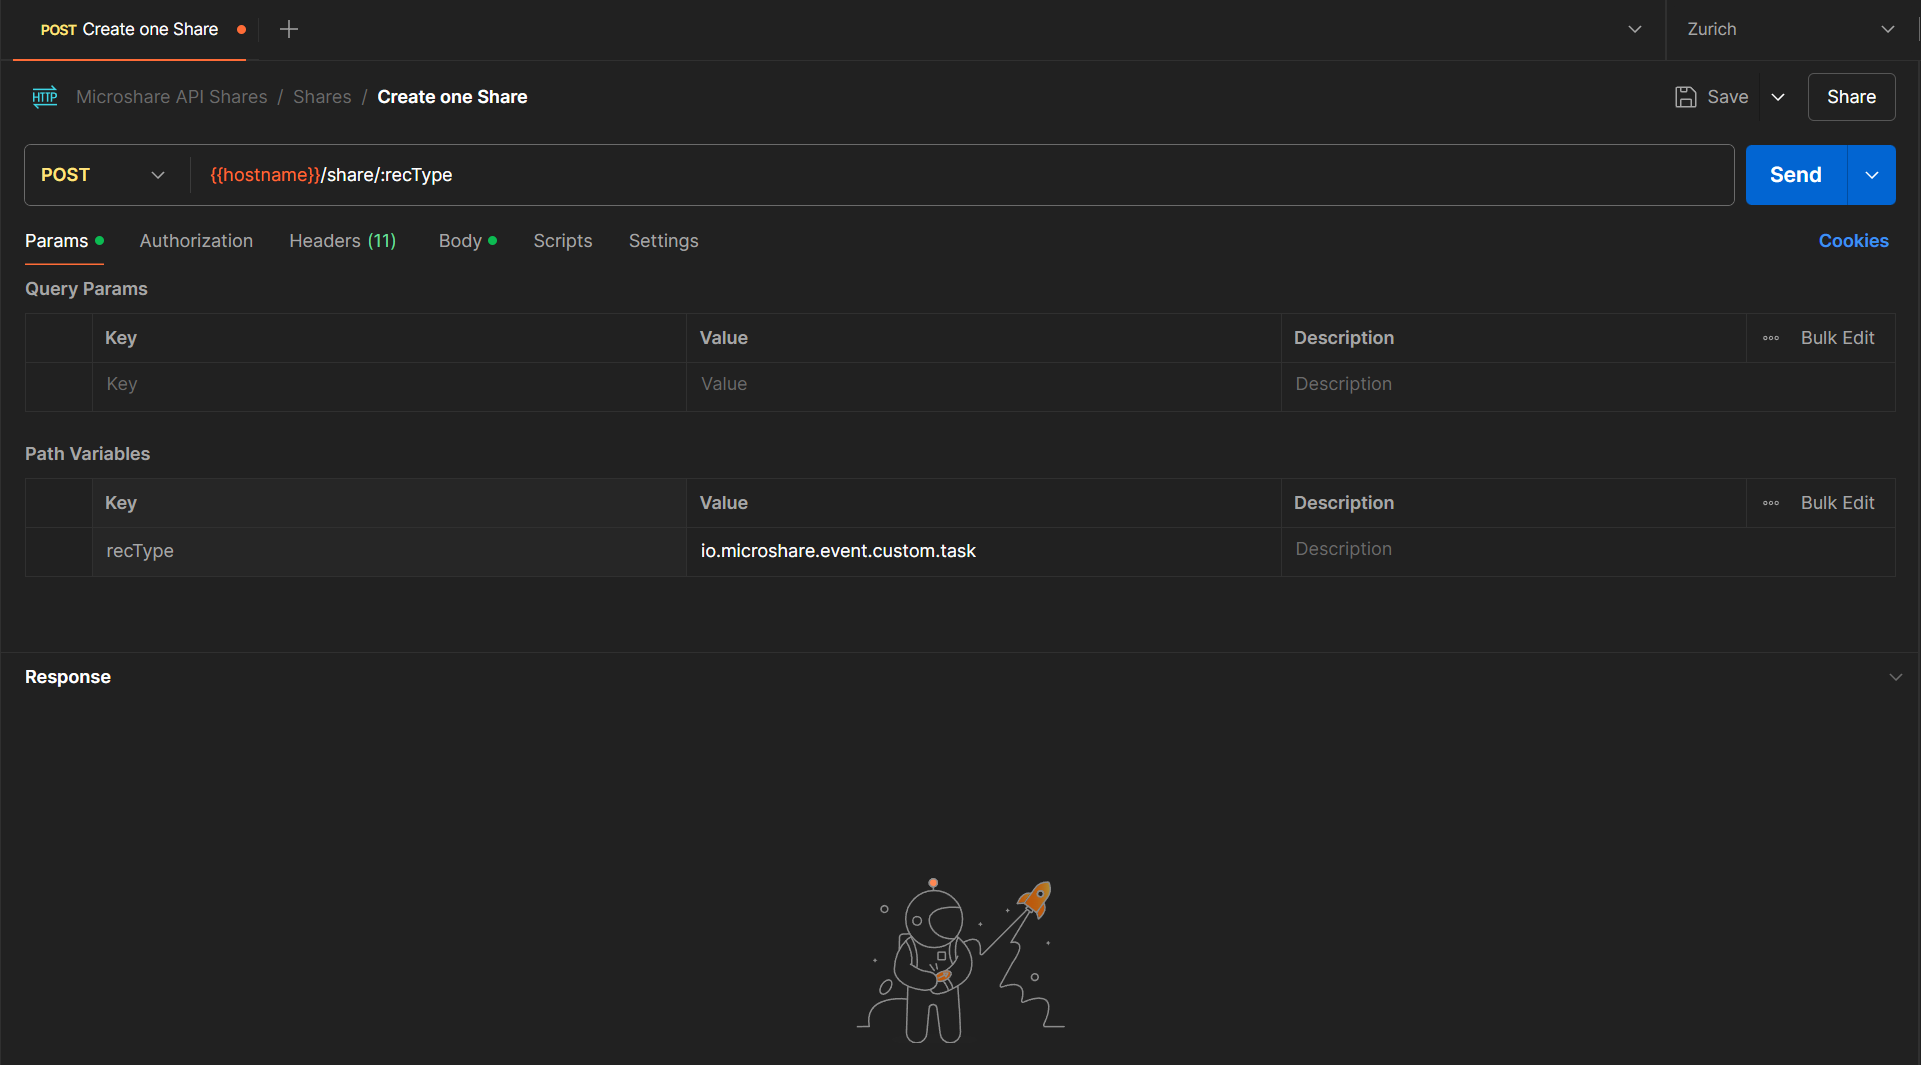
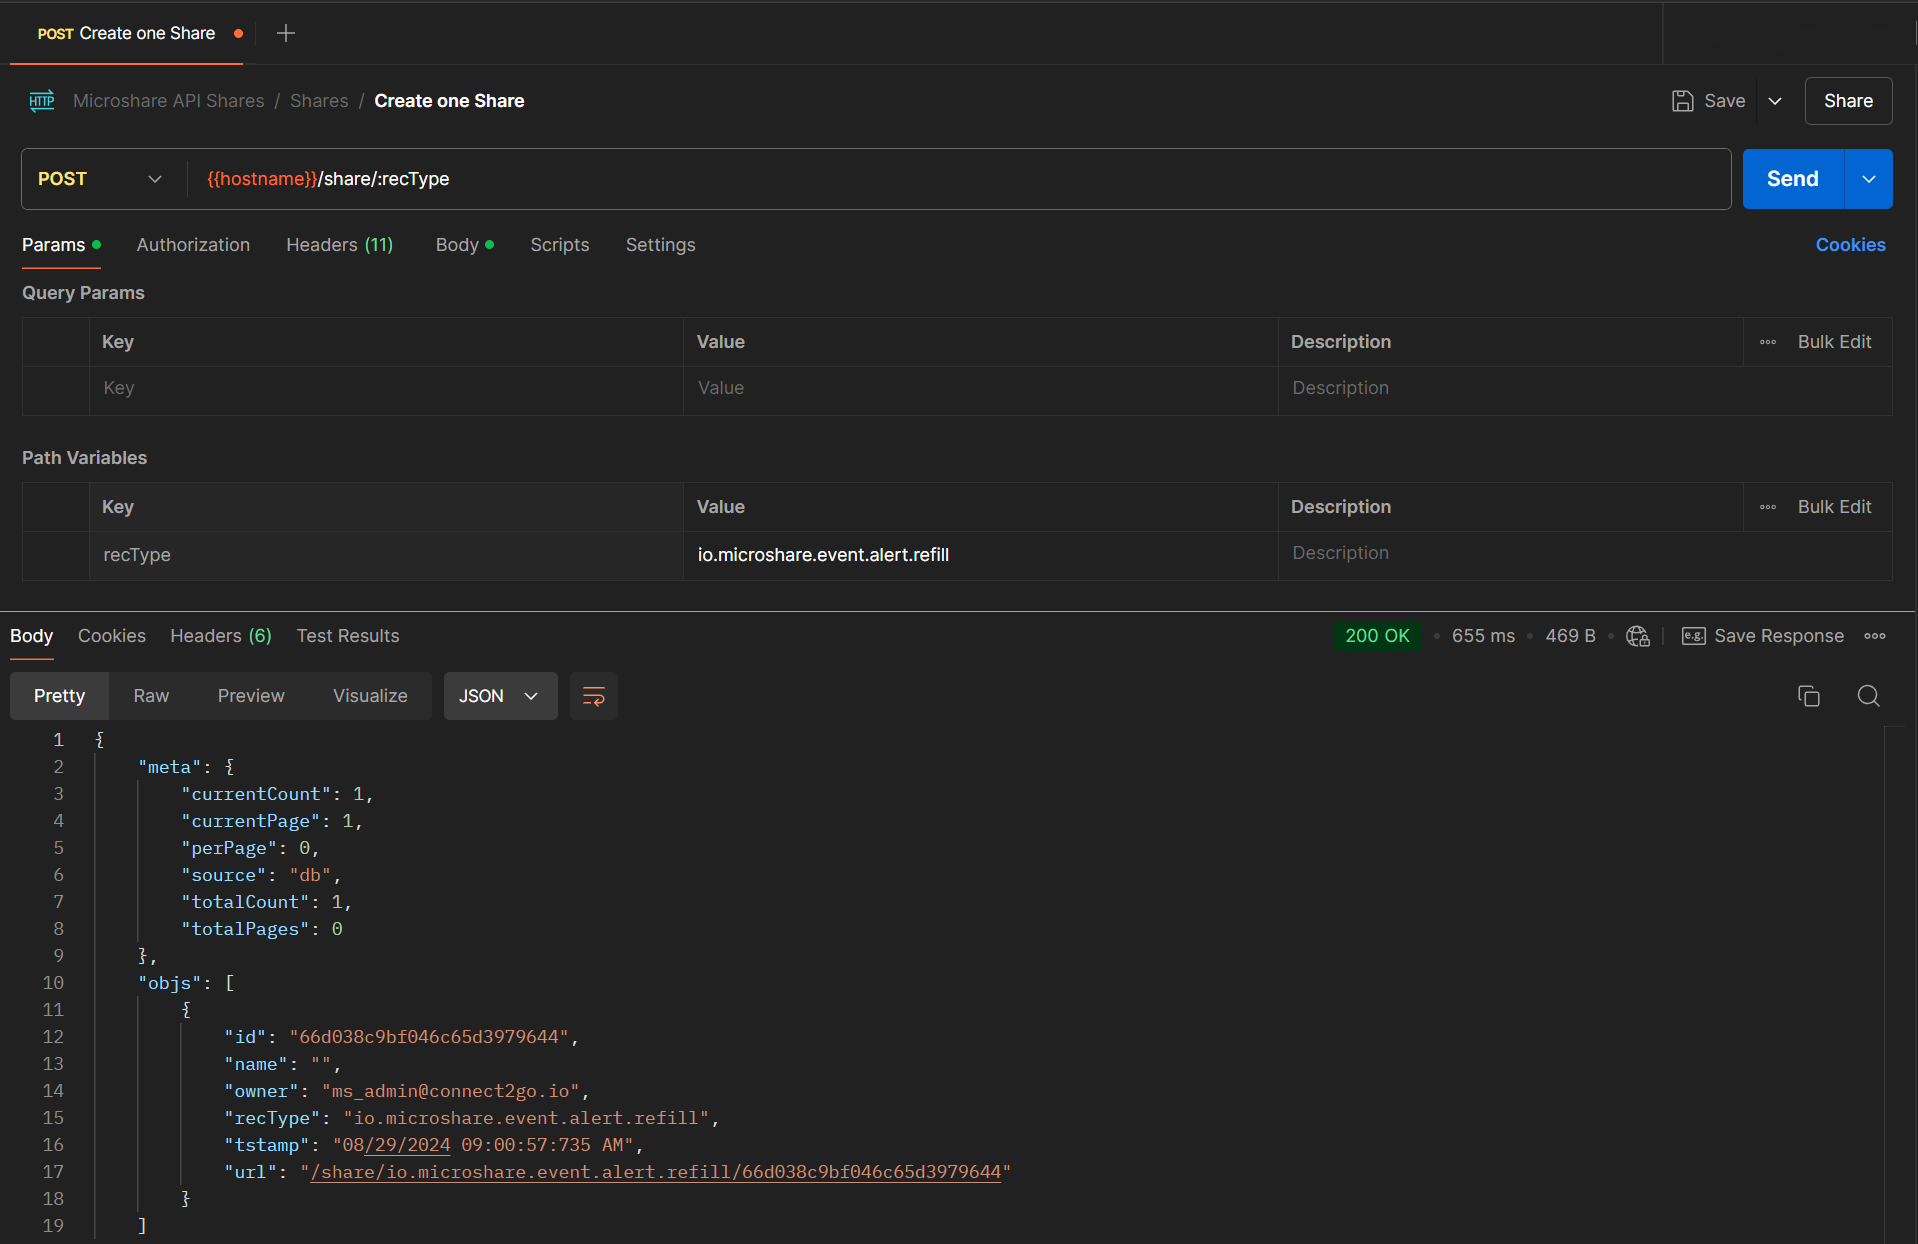
Update creating-custom-incidents.md

diff --git a/docs/2/technical/microshare-platform-advanced/creating-custom-incidents.md b/docs/2/technical/microshare-platform-advanced/creating-custom-incidents.md
@@ -120,10 +120,10 @@ Example body to add alerts for custom location.
   "label": "Label", 
   "meta": { 
     "device": [ 
-      "custom building", 
-      "custom floor", 
-      "custom room", 
-      "custom end location" 
+      "Building B", 
+      "Floor 2", 
+      "Kitchen", 
+      "Sink" 
     ], 
     "global": [ 
       "custom global tags"
@@ -134,31 +134,36 @@ Example body to add alerts for custom location.
     "source": [], 
     "usecase": "Usecase" 
   }, 
-  "solution": "clean" 
+  "solution": "alert" 
 } 
 ``` 
 The above example demonstrates a request body for creating a share with a custom location tag with a known alert and event type. This location may not be associated with a sensor location and can be for an ad-hoc task for a particular location.
 
+For handling custom locations, you will have to configure the respective bundler robot for the given alert rectype.
+
+For eg. here, solution is alert and alert type is feedback so you can [configure](https://docs.microshare.io/docs/2/technical/microshare-platform-advanced/bundler-configuration/) the existing robot for the rectype "io.microshare.event.alert.feedback" to handle the new location which is ["Building B", "Floor 2", "Kitchen", "Sink"].
+
 ## 6. Create alerts by custom Alert type
 ---------------------------------------
+Example Body for creating alert with custom alert type
 ```
 { 
-  "alert": "Custom Alert", 
+  "alert": "trash", 
   "change": 1, 
   "current": { 
     "sum": 1 
   }, 
-  "event": "Custom Event", 
+  "event": "full", 
   "history": { 
     "sum": 0 
   }, 
   "label": "Label", 
   "meta": { 
     "device": [ 
-      "custom building", 
-      "custom floor", 
-      "custom room", 
-      "custom end location" 
+      "Building A", 
+      "Floor 4", 
+      "Room 1", 
+      "Trash Can" 
     ], 
     "global": [ 
       "custom global tags"
@@ -172,14 +177,22 @@ The above example demonstrates a request body for creating a share with a custom
   "solution": "clean" 
 } 
 ``` 
-The above example demonstrates the creation of a task with a custom alert and event type. This can be used to assign ad-hoc tasks which may or may not be related to sensor alerts.
+The above example demonstrates the creation of a task with a custom alert and event type. 
+Here, the task is to empty the trash can.
+{% include image.html url="/assets/img/incidents/image7.png" description="thumbnail 7" %}
+
+This type of format can be used to assign ad-hoc tasks which may or may not be related to sensor alerts.
+
+For alerts with custom alert and event types, a custom incident bundler robot has to be [created](https://docs.microshare.io/docs/2/technical/microshare-platform-advanced/robots-guide/) and [configured](https://docs.microshare.io/docs/2/technical/microshare-platform-advanced/bundler-configuration/) 
 
 ## 7. RecTypes
 ---------------------------------------
-The dafault recType for alerts is io.microshare.event.alert.
-You can create shares of alerts in the same rectype or you can define your own custom rectype. (refer to [Share API documentation](https://docs.microshare.io/docs/2/technical/api/share-api/#2-write-data) for more)
+The default recType for alerts is io.microshare.event.alert.(alertType)
+You can create shares of alerts in the same rectype or you can define your own custom rectype. 
 
-For example: rectype = io.microshare.event.custom.task
+Custom rectypes can be defined in the format io.microshare.event.alert.(customAlertType)
+
+For example: rectype = io.microshare.event.alert.refill
 {% include image.html url="/assets/img/incidents/image6.png" description="thumbnail 6" %}
 
 ### Bundler Configuration
@@ -189,4 +202,4 @@ If the alert share is created in an existing recType, then you will need to upda
 If you have created a new rectype for your custom alert share, then you will need to create a new incident bundler robot.
 
 To configure A Bundler robot, refer to [bundler configuration](https://docs.microshare.io/docs/2/technical/microshare-platform-advanced/bundler-configuration/) guide.
-To create a new robot, refer to [Robots Guide](https://docs.microshare.io/docs/2/technical/microshare-platform-advanced/robots-guide/) and then refer to the [bundler configuration](https://docs.microshare.io/docs/2/technical/microshare-platform-advanced/bundler-configuration/) for configuring the robot.
+To create a new robot, refer to [Robots Guide](https://docs.microshare.io/docs/2/technical/microshare-platform-advanced/robots-guide/) and then refer to the [bundler configuration](https://docs.microshare.io/docs/2/technical/microshare-platform-advanced/bundler-configuration/) for configuring the incident bundler robot.
